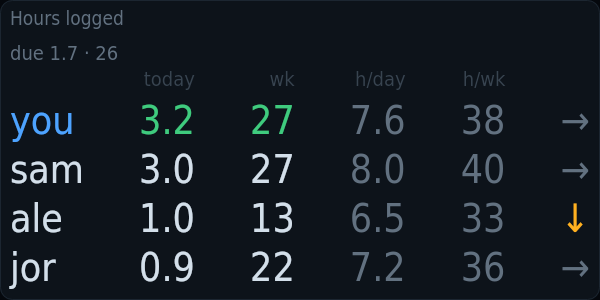
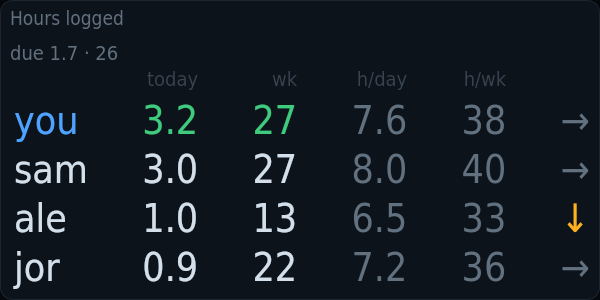
fix(hours): names start a little in
The tail of a j ("jor") and capitals like J start left of their
origin and left the tile by a pixel. Names start a few pixels in, and
their column counts it. Found by kiosko plugins check.

diff --git a/src/index.ts b/src/index.ts
@@ -181,7 +181,9 @@ export const hours = defineWidget({
     const rows = people.slice(0, plan.shown).map((p) => ({ p, name: p.me ? tr({ en: 'you', es: 'tú' }) : shortName(p.user, options.aliases), cells: cols.map((c) => cell(p, c)) }));
     const labels = cols.map((c) => tr(COLUMN_HEADS[c]));
     const colW = labels.map((l, i) => Math.max(kit.measureTracked(g, l, lab), ...rows.map((r) => kit.measureTracked(g, r.cells[i]![0], num))));
-    const longest = Math.max(0, ...rows.map((r) => kit.measureTracked(g, r.name, num)));
+    // Names start a little in (the tail of a j would leave the box): their column counts it.
+    const inset = Math.ceil(num.size * 0.08);
+    const longest = Math.max(0, ...rows.map((r) => kit.measureTracked(g, r.name, num))) + inset;
     const free = box.w - colW.reduce((a, b) => a + b, 0);
     const nameW = Math.min(longest, free - rowH * 0.3 * colW.length);
     const air = Math.max(0, (free - nameW) / Math.max(1, colW.length));
@@ -194,7 +196,7 @@ export const hours = defineWidget({
     rows.forEach(({ p, name, cells }, k) => {
       const row = plan.rows[k]!;
       const base = row.y + rowH * 0.82;
-      kit.drawTracked(g, kit.truncate(g, name, nameW, num), box.x, base, { ...num, color: p.me ? colors.accent : colors.ink });
+      kit.drawTracked(g, kit.truncate(g, name, nameW - inset, num), box.x + inset, base, { ...num, color: p.me ? colors.accent : colors.ink });
       cells.forEach(([text, color], i) => kit.drawTracked(g, text, rights[i]!, base, { ...num, color, align: 'right' }));
     });
     drawMore(g, ctx, plan);
